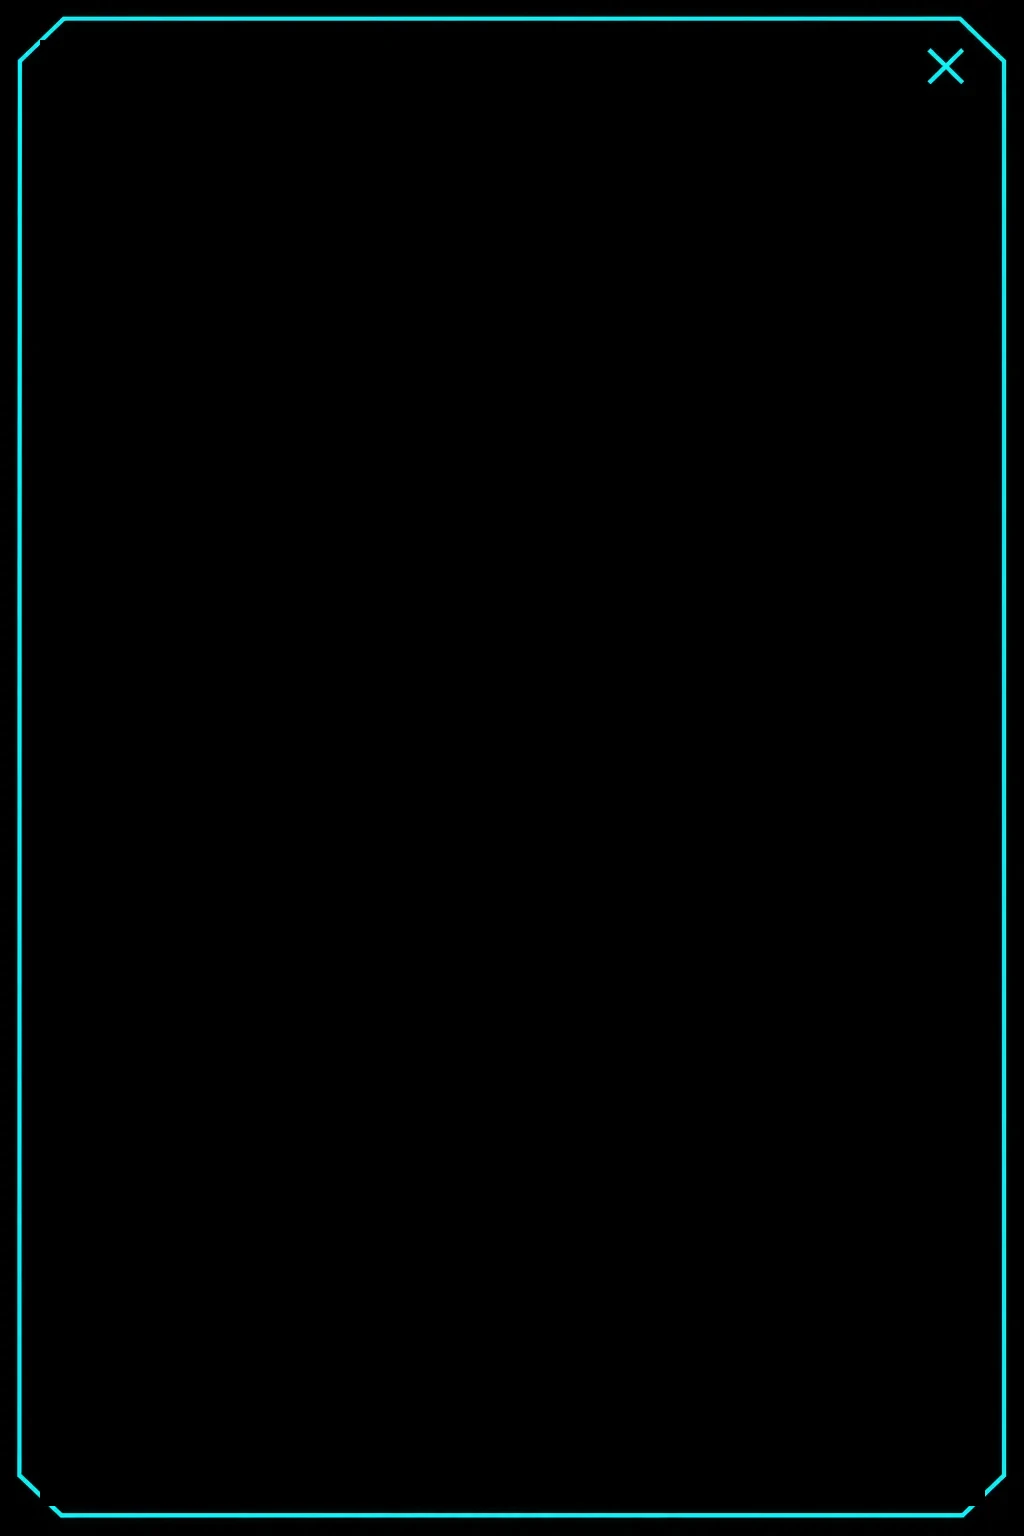
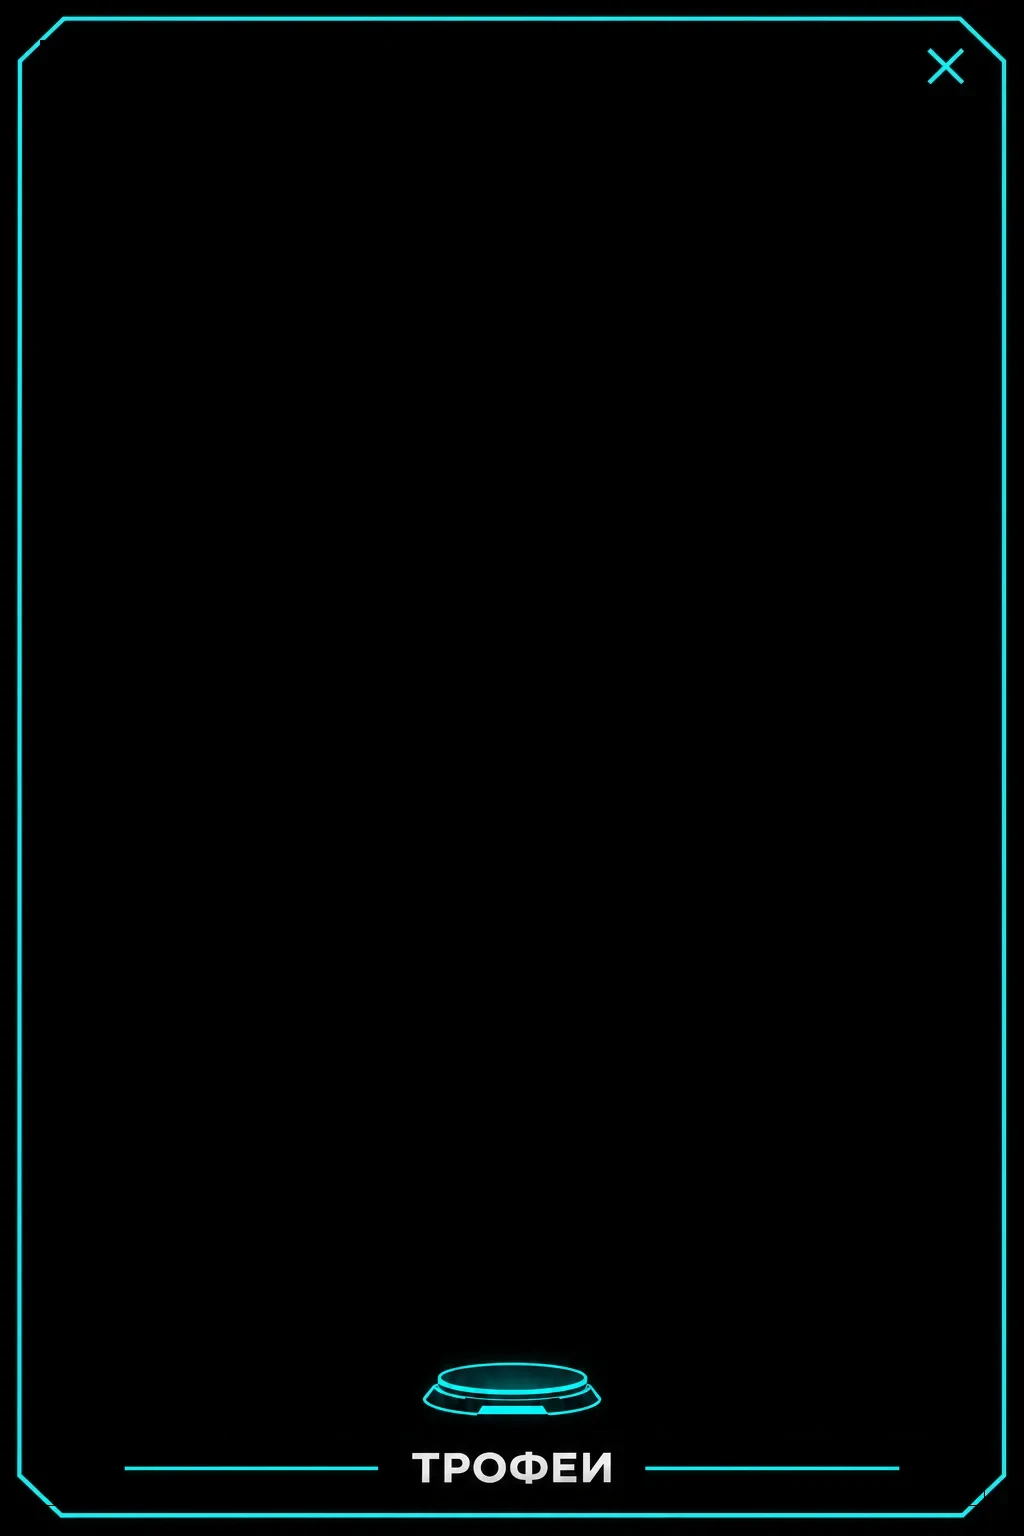
Окна МО/2на2/3на3: пьедесталы и надпись «Трофеи» из окна региона, трофеи стоят на пьедесталах
Claude-Session: https://claude.ai/code/session_01BdoBrB8cx4HivwSUnJtpct

Changed region(s): [[0.4062, 0.875, 0.5938, 0.9688], [0.625, 0.9375, 0.875, 0.9688], [0.125, 0.9375, 0.3438, 0.9688]]

diff --git a/index.html b/index.html
@@ -1070,7 +1070,7 @@ html.land .pr-menu{max-height:92vh;max-width:820px}html.land .pr-acts{grid-templ
 .tmrow.hum{background:rgba(245,197,66,.07)}.tmrow .win b{color:#7FD6A0}.tmrow.z1{border-left:3px solid #22c55e;padding-left:4px}.tmrow.z2{border-left:3px solid #eab308;padding-left:4px}.tmrow.z3{border-left:3px solid #ef4444;padding-left:4px}
 .tmros{display:grid;grid-template-columns:repeat(auto-fill,minmax(140px,1fr));gap:8px}.tmrc{display:flex;flex-direction:column;align-items:center;text-align:center;gap:2px;padding:8px;border-radius:10px;background:#0f1426;border:1px solid #1d2540}.tmrc.hum{border-color:var(--gold)}.tmrc .tlogo{width:40px;height:40px}.tmrc b{font-size:13px}
 .tfrow{display:flex;flex-wrap:wrap;justify-content:center;gap:10px;margin:14px 0}.tfp{display:flex;flex-direction:column;align-items:center;gap:4px;background:#0f1426;border:4px solid;border-radius:14px;padding:8px;color:inherit;cursor:pointer;width:96px}.tfp .ava{width:64px;height:64px}
-.cwpanel{background-color:transparent}.cwin{position:absolute;inset:11cqw 7cqw 5cqw;overflow:auto;display:flex;flex-direction:column;gap:2cqw;color:#e8ecf6}
+.cwpanel{background-color:transparent}.cwin{position:absolute;inset:11cqw 7cqw 40cqw;overflow:auto;display:flex;flex-direction:column;gap:2cqw;color:#e8ecf6}
 .cwlogo{width:22cqw;height:22cqw;object-fit:contain;align-self:center;border-radius:3cqw}.cwhead{display:flex;align-items:center;justify-content:center;gap:3cqw}.cwhead .cwlogo{width:16cqw;height:16cqw}.cwttl{font-size:6cqw;font-weight:800;text-align:center;color:var(--gold)}.cwgrid{display:grid;grid-template-columns:1fr 1fr;gap:3cqw}
 .cwc{display:flex;flex-direction:column;align-items:center;gap:1cqw;text-align:center}.cwc img{width:20cqw;height:20cqw;object-fit:contain}.cwgrid.m4{grid-template-columns:repeat(4,1fr);gap:1.5cqw}.cwgrid.m4 img{width:17cqw;height:17cqw}.cwgrid.m4 b{font-size:3cqw}.cwc b{font-size:3.6cqw}.cwc small{font-size:3.2cqw;color:var(--gold)}.cwc.off{opacity:.35}
 .cwcel{width:86%;align-self:center;aspect-ratio:16/9;object-fit:cover;border-radius:2cqw}.cwcup{width:24cqw;height:24cqw;object-fit:contain;align-self:center}
@@ -1105,6 +1105,8 @@ html.land .pr-menu{max-height:92vh;max-width:820px}html.land .pr-acts{grid-templ
 .swrow.z1{border-left:3px solid #22c55e}.swrow.z2{border-left:3px solid #eab308}.swrow.z3{border-left:3px solid #ef4444}
 .tmrc.out{opacity:.45}.tmout{margin-top:10px}.tmout summary{cursor:pointer;color:var(--dim);font-weight:700;padding:6px 0}
 .tmrc b{white-space:normal!important;overflow-wrap:anywhere;line-height:1.15}
+.cwped.off{opacity:.18;filter:grayscale(1) drop-shadow(0 6px 8px rgba(0,0,0,.7))}.cwttl.sm{font-size:4.6cqw;margin-top:2cqw}
+.cwlist{display:grid;grid-template-columns:1fr 1fr;gap:1.4cqw 4cqw;font-size:3.4cqw}.cwlist>div{display:flex;justify-content:space-between;border-bottom:1px solid #1d2540;padding:.8cqw 0}.cwlist b{color:var(--gold)}
 </style></head>
 <body><div id="stage"><div id="app"></div></div><button id="orient" type="button" aria-label="Повернуть экран" title="Повернуть экран">⟳</button>
 <script>
@@ -3504,21 +3506,25 @@ function viewTTR() {
 }
 
 // ---------- кубки на карте: МО, 2на2, 3на3 ----------
-function viewCupWin() {
-  const k = S.cw, hi = heroIdx(S);
-  let inner = '';
+function viewCupWin() {   // окна кубков на карте: форма окна региона, внизу пьедесталы с трофеями и надпись «Трофеи»
+  const k = S.cw, hi = heroIdx(S), PY = 1365;
+  const ped = (x, img, won, t) => `<img class="lpedimg cwped ${won ? '' : 'off'}" src="${img}" alt="${t}" title="${t}${won ? '' : ' — ещё не получен'}" style="left:${pc(x, 1024)};top:${pc(PY + PED_SINK, 1536)};height:${pc(200, 1536)}" onerror="this.style.visibility='hidden'">`;
+  let inner = '', peds = '';
   if (k === 'mo') {
     const it = [[S.wfWon, 'img/trophy/wf.webp', 'Чемпионат мира'], [S.wcWon, 'img/trophy/wc.webp', 'Wild Card'], [S.dhWon ? 1 : 0, 'img/trophy/dh.webp', 'Метеор Фест'], [S.eslWins, 'img/crown.webp', 'Корона Спектров']];
     const med = TIERS.map((t, i) => [S.troph.filter(x => x.n === t.name).length, TIER_SHORT[i], 'medal_' + i]).concat(TL_SIZES.map(z => [(S.ttWon || {})[z] || 0, `Командный ${z}на${z}`, 'medal_t' + z]));
-    inner = `<div class="cwhead"><img class="cwlogo" src="img/tcup/logo_mo.webp" alt=""><div class="cwttl">Мировые трофеи</div></div><div class="cwgrid">${it.map(([n, img, t]) => `<div class="cwc ${n ? '' : 'off'}"><img src="${img}" alt="" onerror="this.style.visibility='hidden'"><b>${t}</b><small>${n ? '×' + n : 'нет'}</small></div>`).join('')}</div>
-      <div class="cwttl" style="margin-top:3cqw">Медали за турниры</div><div class="cwgrid m4">${med.map(([n, t, img]) => `<div class="cwc ${n ? '' : 'off'}"><img src="img/tcup/${img}.webp" alt=""><b>${t}</b><small>${n ? '×' + n : 'нет'}</small></div>`).join('')}</div>`;
+    inner = `<div class="cwhead"><img class="cwlogo" src="img/tcup/logo_mo.webp" alt=""><div class="cwttl">Мировые трофеи</div></div>
+      <div class="cwlist">${it.map(([n, , t]) => `<div class="${n ? '' : 'dim'}"><span>${t}</span><b>${n ? '×' + n : '—'}</b></div>`).join('')}</div>
+      <div class="cwttl sm">Медали за турниры</div><div class="cwgrid m4">${med.map(([n, t, img]) => `<div class="cwc ${n ? '' : 'off'}"><img src="img/tcup/${img}.webp" alt=""><b>${t}</b><small>${n ? '×' + n : 'нет'}</small></div>`).join('')}</div>`;
+    peds = it.map(([n, img, t], j) => ped([175, 397, 623, 848][j], img, n, t)).join('');
   } else {
     const z = +k, wins = (G.tcups && G.tcups[z] || []).filter(c => c.mem.some(x => x.h === hi)), last = (G.tcups && G.tcups[z] || [])[0], show = wins[0] || last;
-    inner = `<div class="cwhead"><img class="cwlogo" src="img/tcup/logo_${z}.webp" alt=""><div class="cwttl">Лига ${z}на${z}</div></div><img class="cwcel" src="img/tcup/celebrate_${z}.webp" alt=""><img class="cwcup" src="img/tcup/cup_${z}.webp" alt="">
+    inner = `<div class="cwhead"><img class="cwlogo" src="img/tcup/logo_${z}.webp" alt=""><div class="cwttl">Лига ${z}на${z}</div></div><img class="cwcel" src="img/tcup/celebrate_${z}.webp" alt="">
       ${show ? `<div class="dim" style="text-align:center">${wins.length ? `Твой кубок${wins.length > 1 ? ' ×' + wins.length : ''} · сезон ${show.season}` : `Кубок ещё не твой. Действующий чемпион · сезон ${show.season}`}</div><div class="cwteam">${show.logo ? `<img class="tlogo" src="img/team/${show.logo}.webp" alt="">` : ''}<b>${esc(show.name)}</b></div>
         <div class="cwmem">${show.mem.map(x => `<div><span class="ava">${faceImg(x.face)}</span><small>${flagOf(x.c)} ${esc(x.n)}</small></div>`).join('')}</div>` : '<div class="dim" style="text-align:center">Кубок ещё никто не выиграл.</div>'}`;
+    peds = ped(512, `img/tcup/cup_${z}.webp`, wins.length, `Кубок ${z}на${z}`);
   }
-  return viewMain() + `<div class="ovl" data-a="back"><div class="lwrap" data-a="noop"><div class="lpanel cwpanel" style="background-image:url(img/tcup/panel_${k}.webp)"><div class="cwin">${inner}</div><button class="lclose" data-a="back" aria-label="Закрыть"></button></div></div></div>`;
+  return viewMain() + `<div class="ovl" data-a="back"><div class="lwrap" data-a="noop"><div class="lpanel cwpanel" style="background-image:url(img/tcup/panel_${k}.webp)"><div class="cwin">${inner}</div>${peds}<button class="lclose" data-a="back" aria-label="Закрыть"></button></div></div></div>`;
 }
 
 // ---------- турниры ----------

diff --git a/sw.js b/sw.js
@@ -1,6 +1,6 @@
 // Установка как приложения и офлайн: сначала сеть (чтобы приходили обновления), без сети — сохранённая копия.
 // Картинки лежат в отдельном кэше, который не стирается при обновлениях; по просьбе страницы скачиваются все сразу (assets.json).
-const CACHE = 'spektr-v167', IMG = 'spektr-img';
+const CACHE = 'spektr-v168', IMG = 'spektr-img';
 const FILES = ['./', './index.html', './manifest.webmanifest', './assets.json', './icon-192.png', './icon-512.png', './icon-mask.png', './icon-180.png'];
 self.addEventListener('install', e => { e.waitUntil(caches.open(CACHE).then(c => c.addAll(FILES))); self.skipWaiting(); });
 self.addEventListener('activate', e => { e.waitUntil(caches.keys().then(ks => Promise.all(ks.filter(k => k !== CACHE && k !== IMG).map(k => caches.delete(k))))); self.clients.claim(); });
